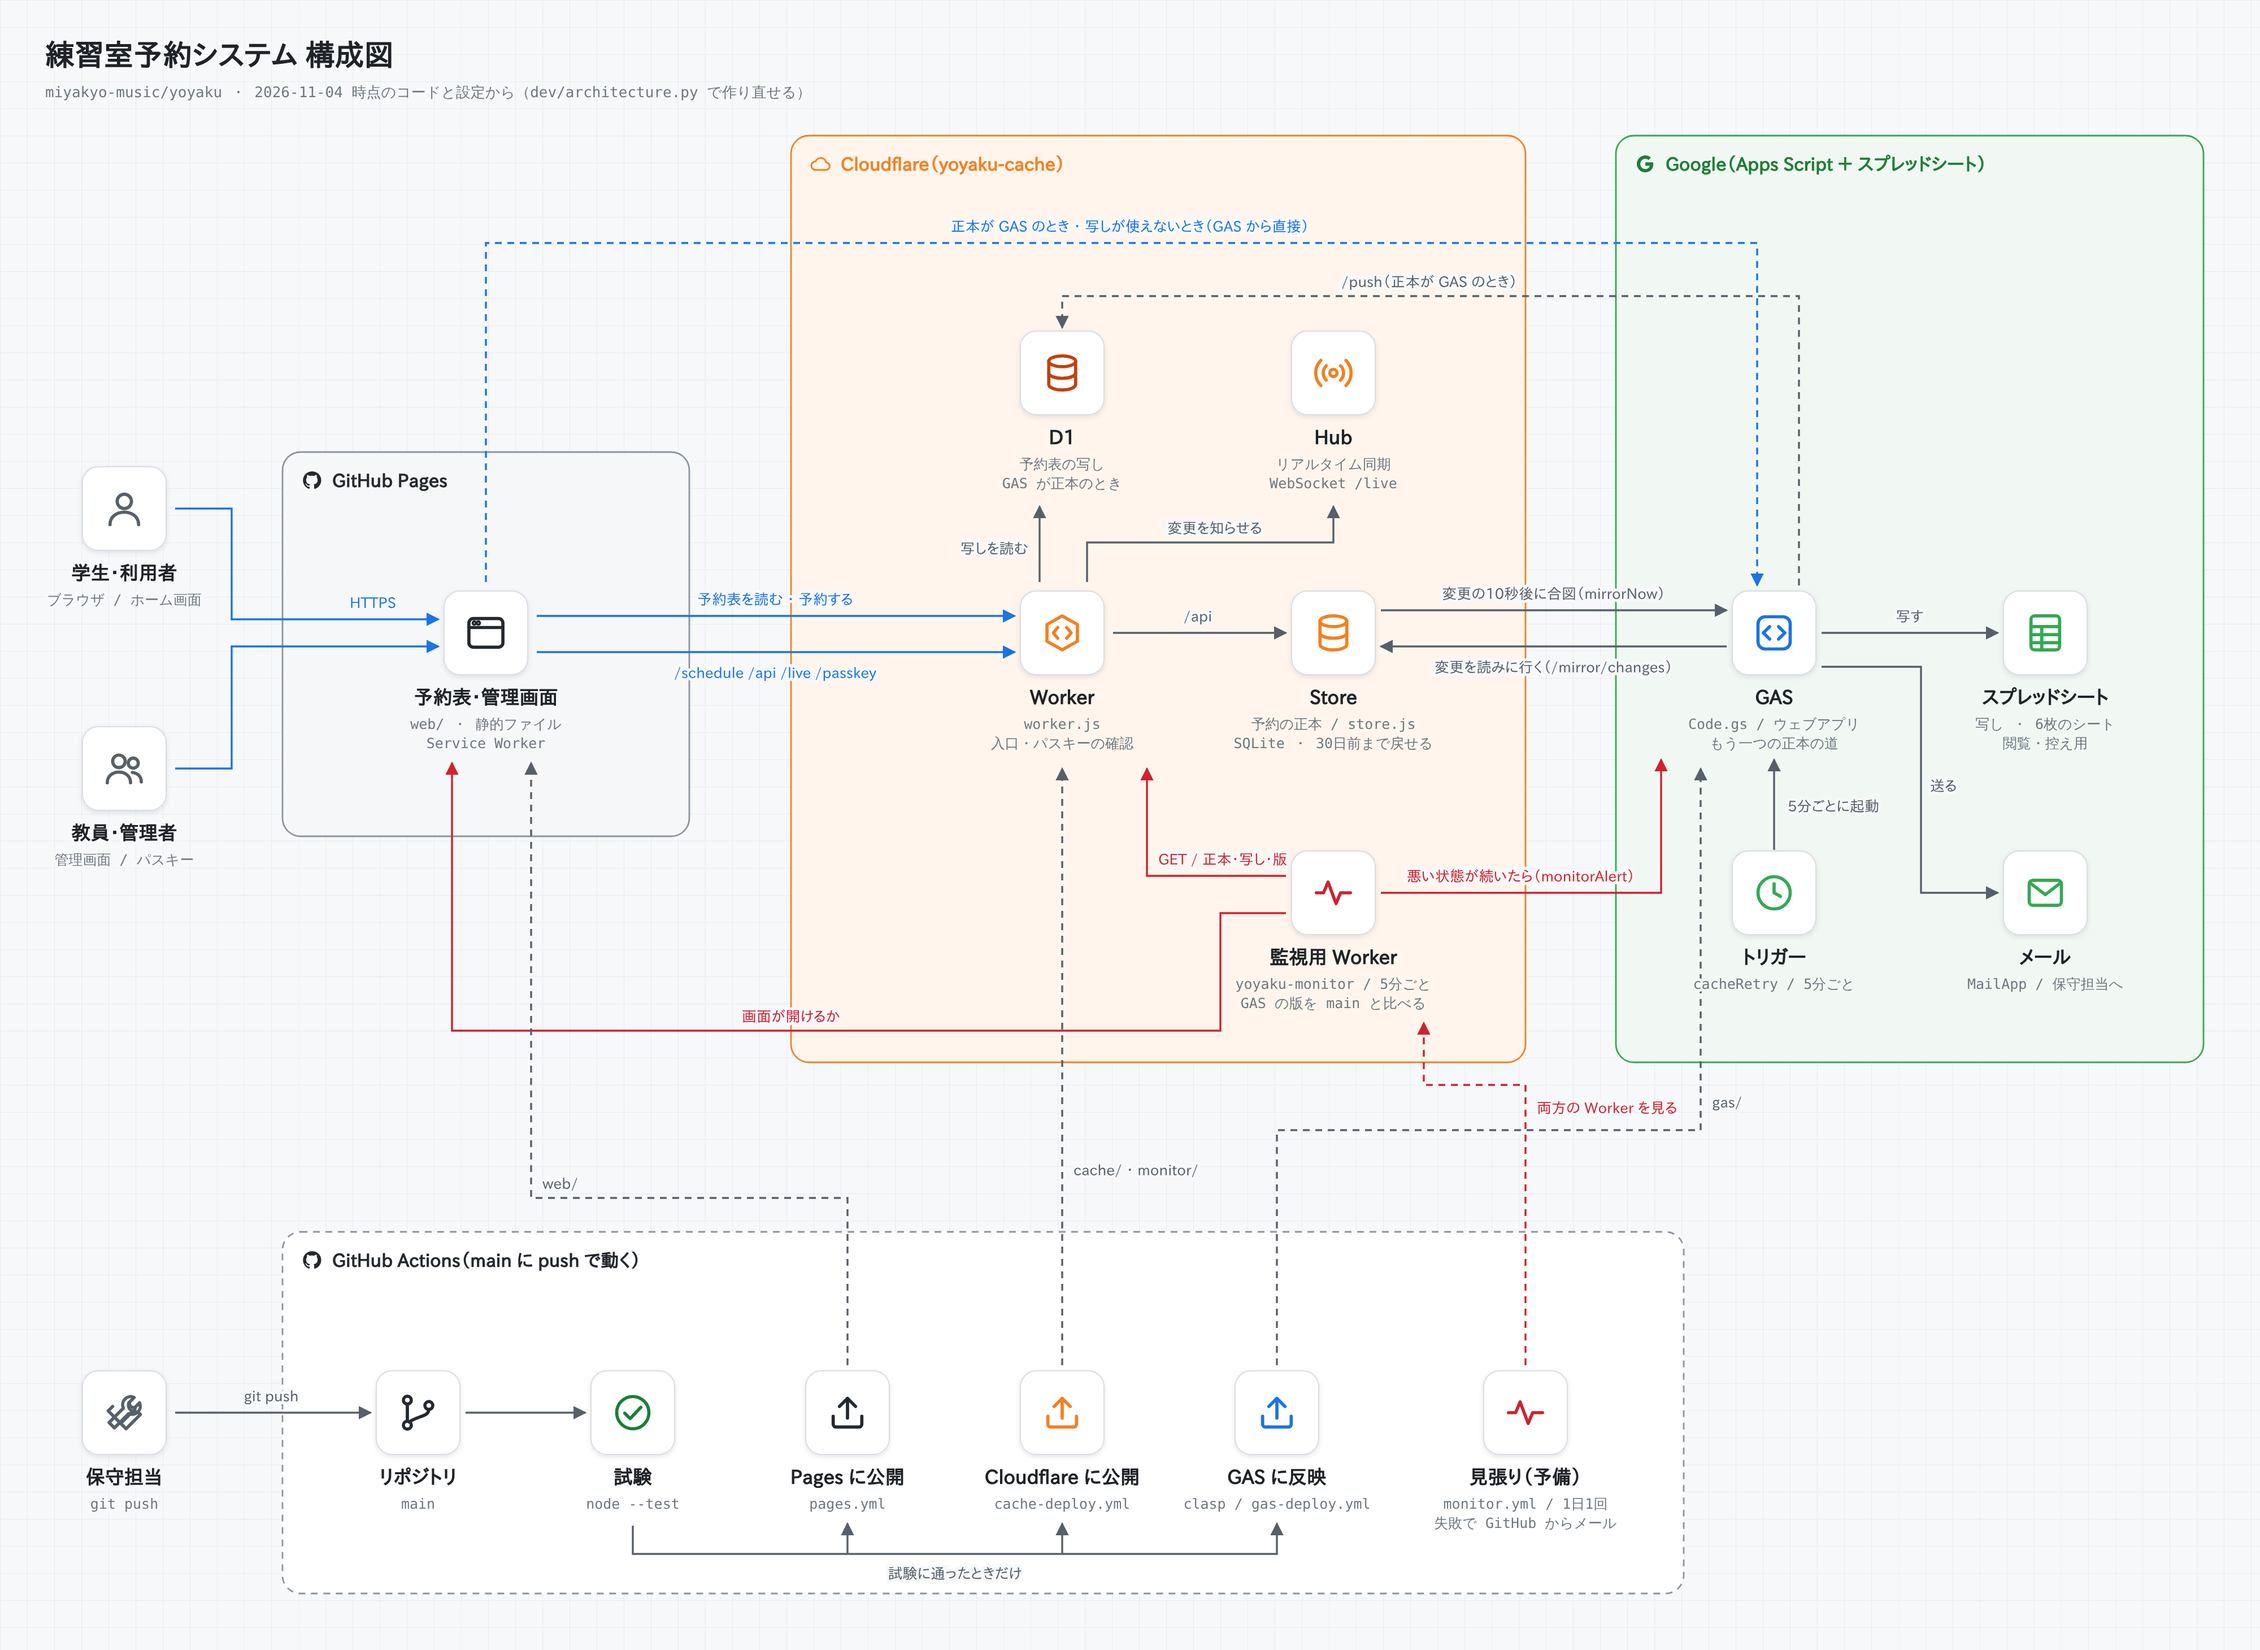
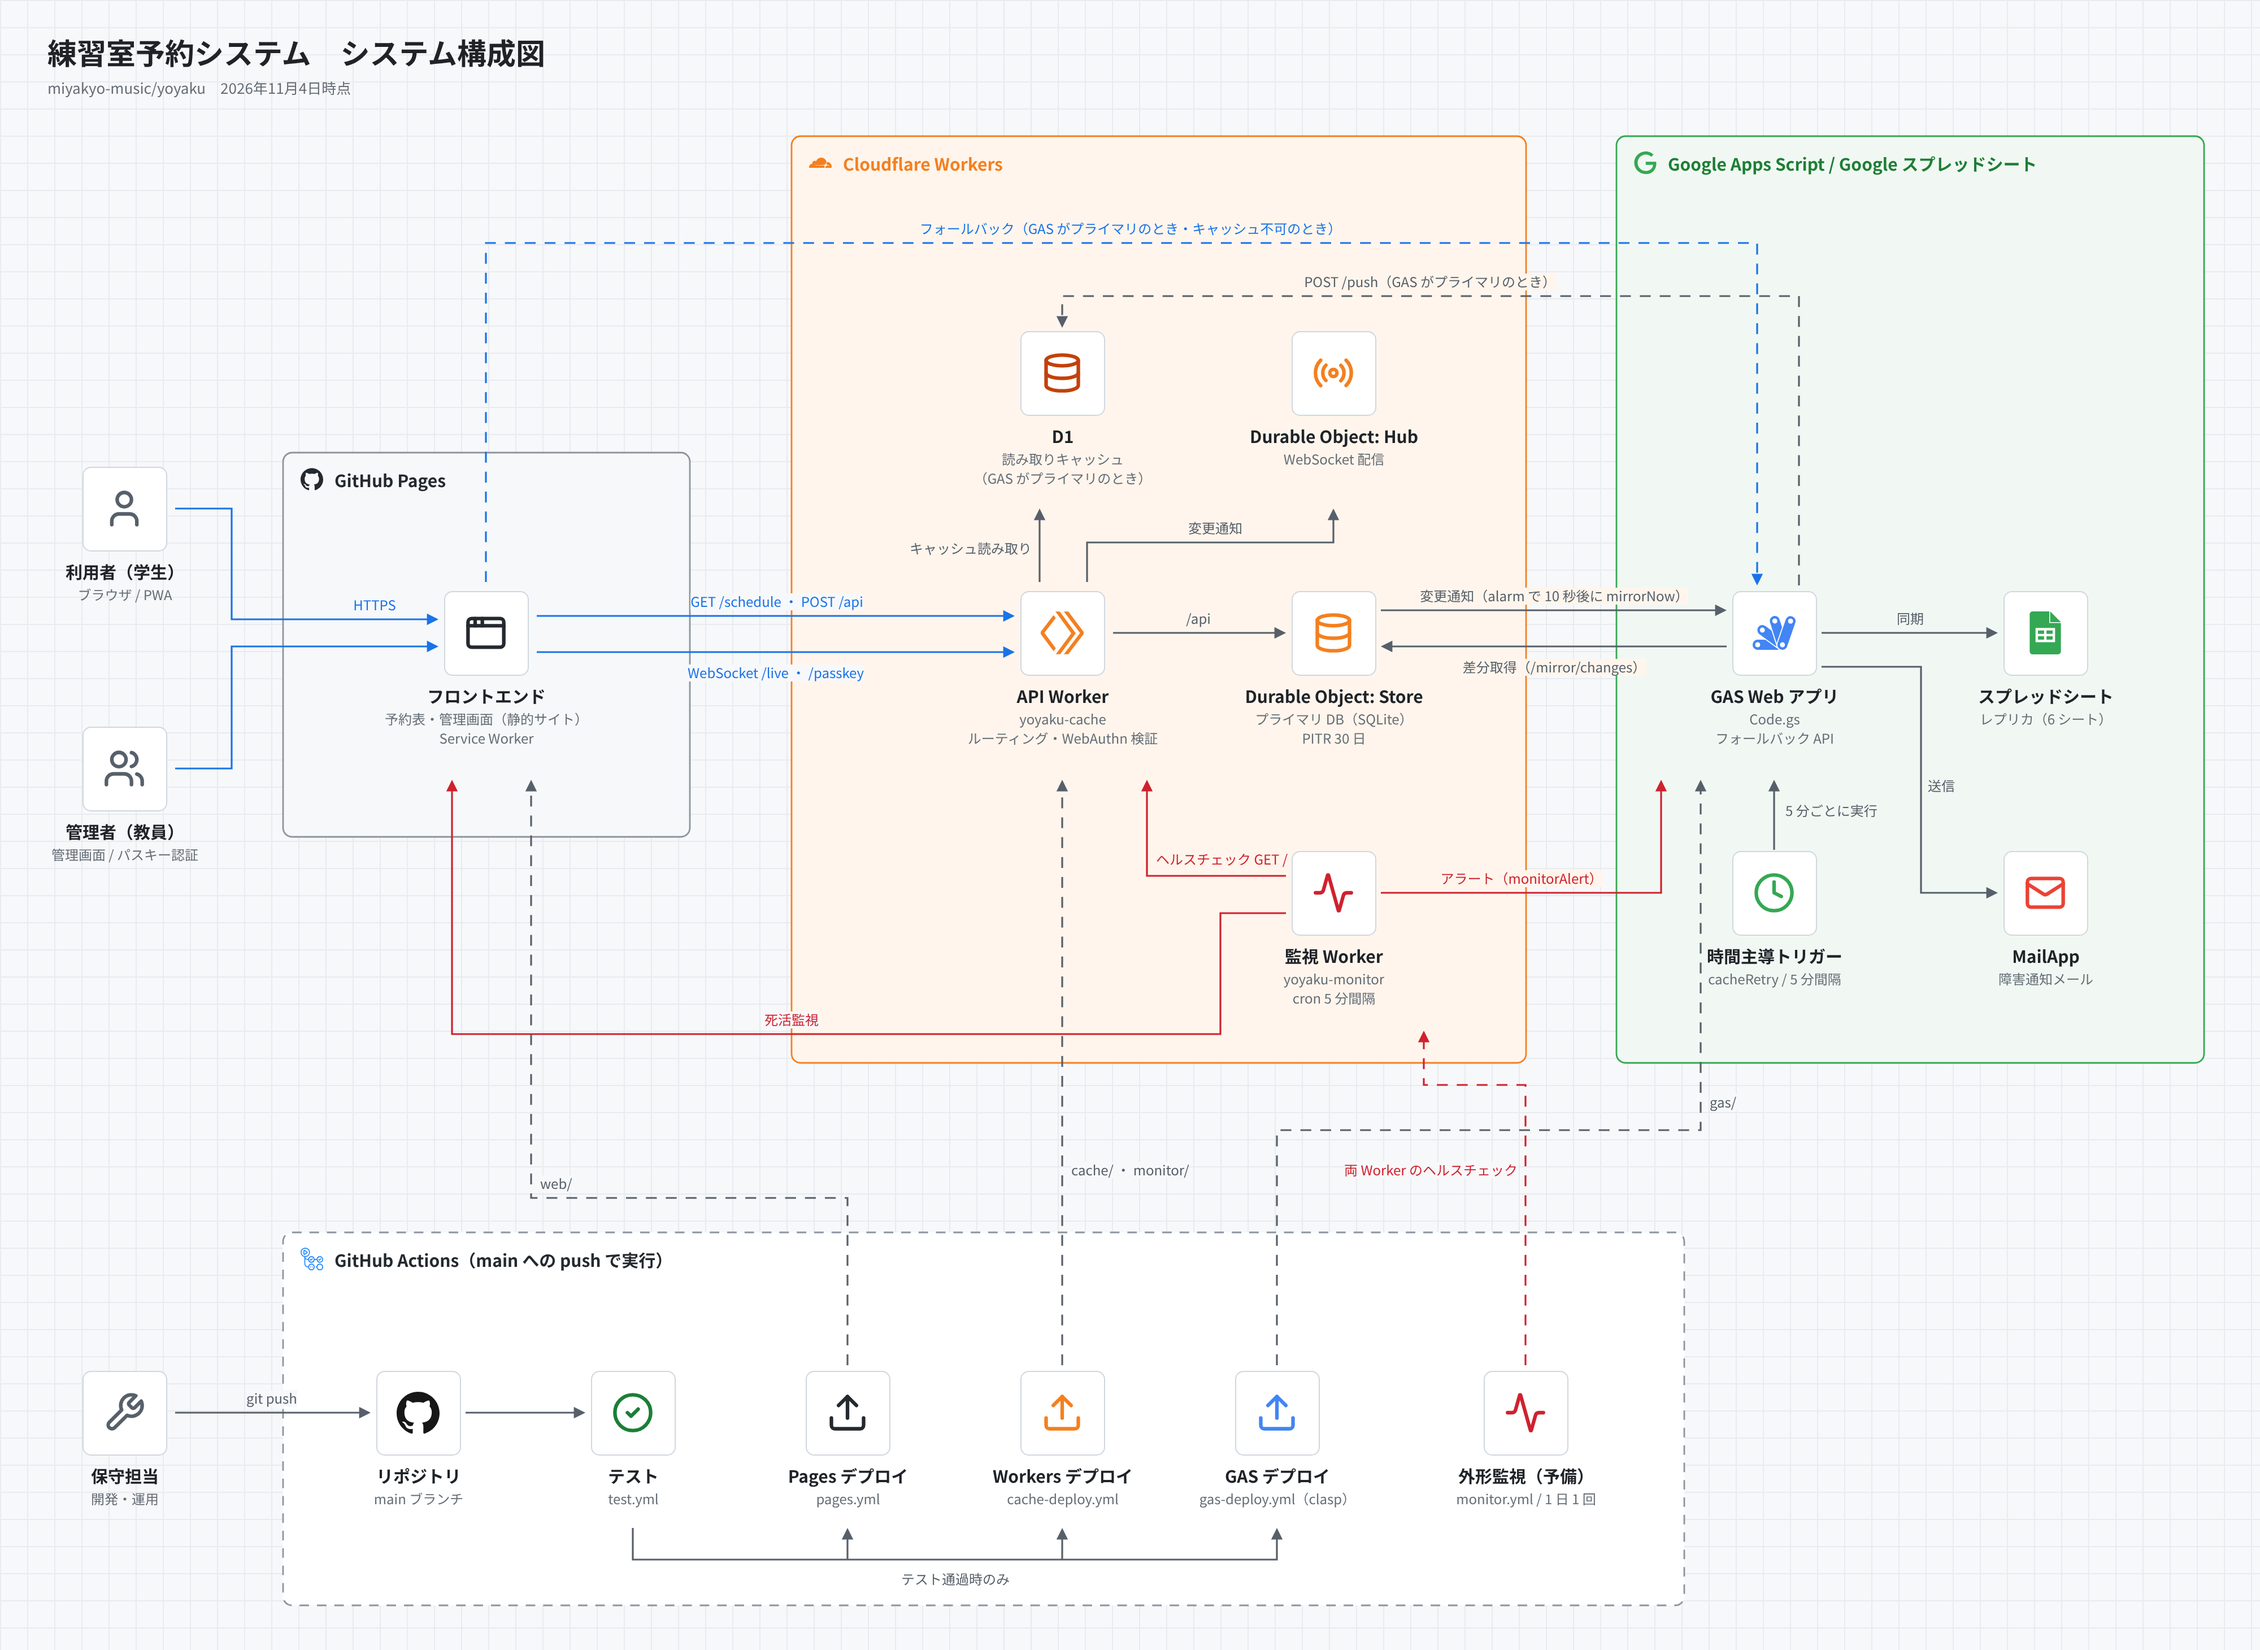
システム構成図を draw.io 形式で作り直す
手書きの SVG とスクリプトをやめ、draw.io の元データ docs/構成図.drawio と
書き出した PNG に置き換えた。フォントは Noto Sans JP、ラベルは技術用語に統一。
README の記述も合わせて直した。

Claude-Session: https://claude.ai/code/session_01C8M3rwT2qaQNQ92H3dPx8s

diff --git a/README.md b/README.md
@@ -1,7 +1,7 @@
 # 練習室予約システム（GitHub Pages + GAS + スプレッドシート）
 
 > 詳細な仕様は **[docs/仕様書.md](docs/仕様書.md)** を参照してください（変更のたびに更新）。
-> 全体のつながりは **[構成図](docs/構成図.png)**（[SVG](docs/構成図.svg)、作り直しは `python3 dev/architecture.py docs/構成図.svg`）。
+> システム構成図は **[docs/構成図.png](docs/構成図.png)** です。元データ `docs/構成図.drawio` を draw.io（diagrams.net）で編集し、PNG に書き出して更新してください。
 
 「りざぶ郎」の代替として開発した、サーバー不要・維持費ゼロ・広告なしの練習室予約Webアプリです。
 
@@ -23,7 +23,7 @@
 | `gas/appsscript.json` | GAS マニフェスト（タイムゾーン・公開設定） |
 | `.github/workflows/pages.yml` | `main` ブランチへの push 時に `web/` を GitHub Pages へデプロイするワークフロー |
 | `dev/` | ローカル動作確認環境（本番環境には不要） |
-| `docs/構成図.png`・`docs/構成図.svg` | システム構成図（GitHub Pages・Cloudflare・GAS・GitHub Actions のつながり。台本は `dev/architecture.py`） |
+| `docs/構成図.drawio`・`docs/構成図.png` | システム構成図（GitHub Pages・Cloudflare Workers・GAS・GitHub Actions の構成。draw.io で編集） |
 | `docs/デプロイ手順.md` | GitHub・GAS の初期構築および更新手順 |
 | `docs/運用・引き継ぎマニュアル.md` | 年度切り替え・卒業時の引き継ぎ手順（A4・1枚） |
 
